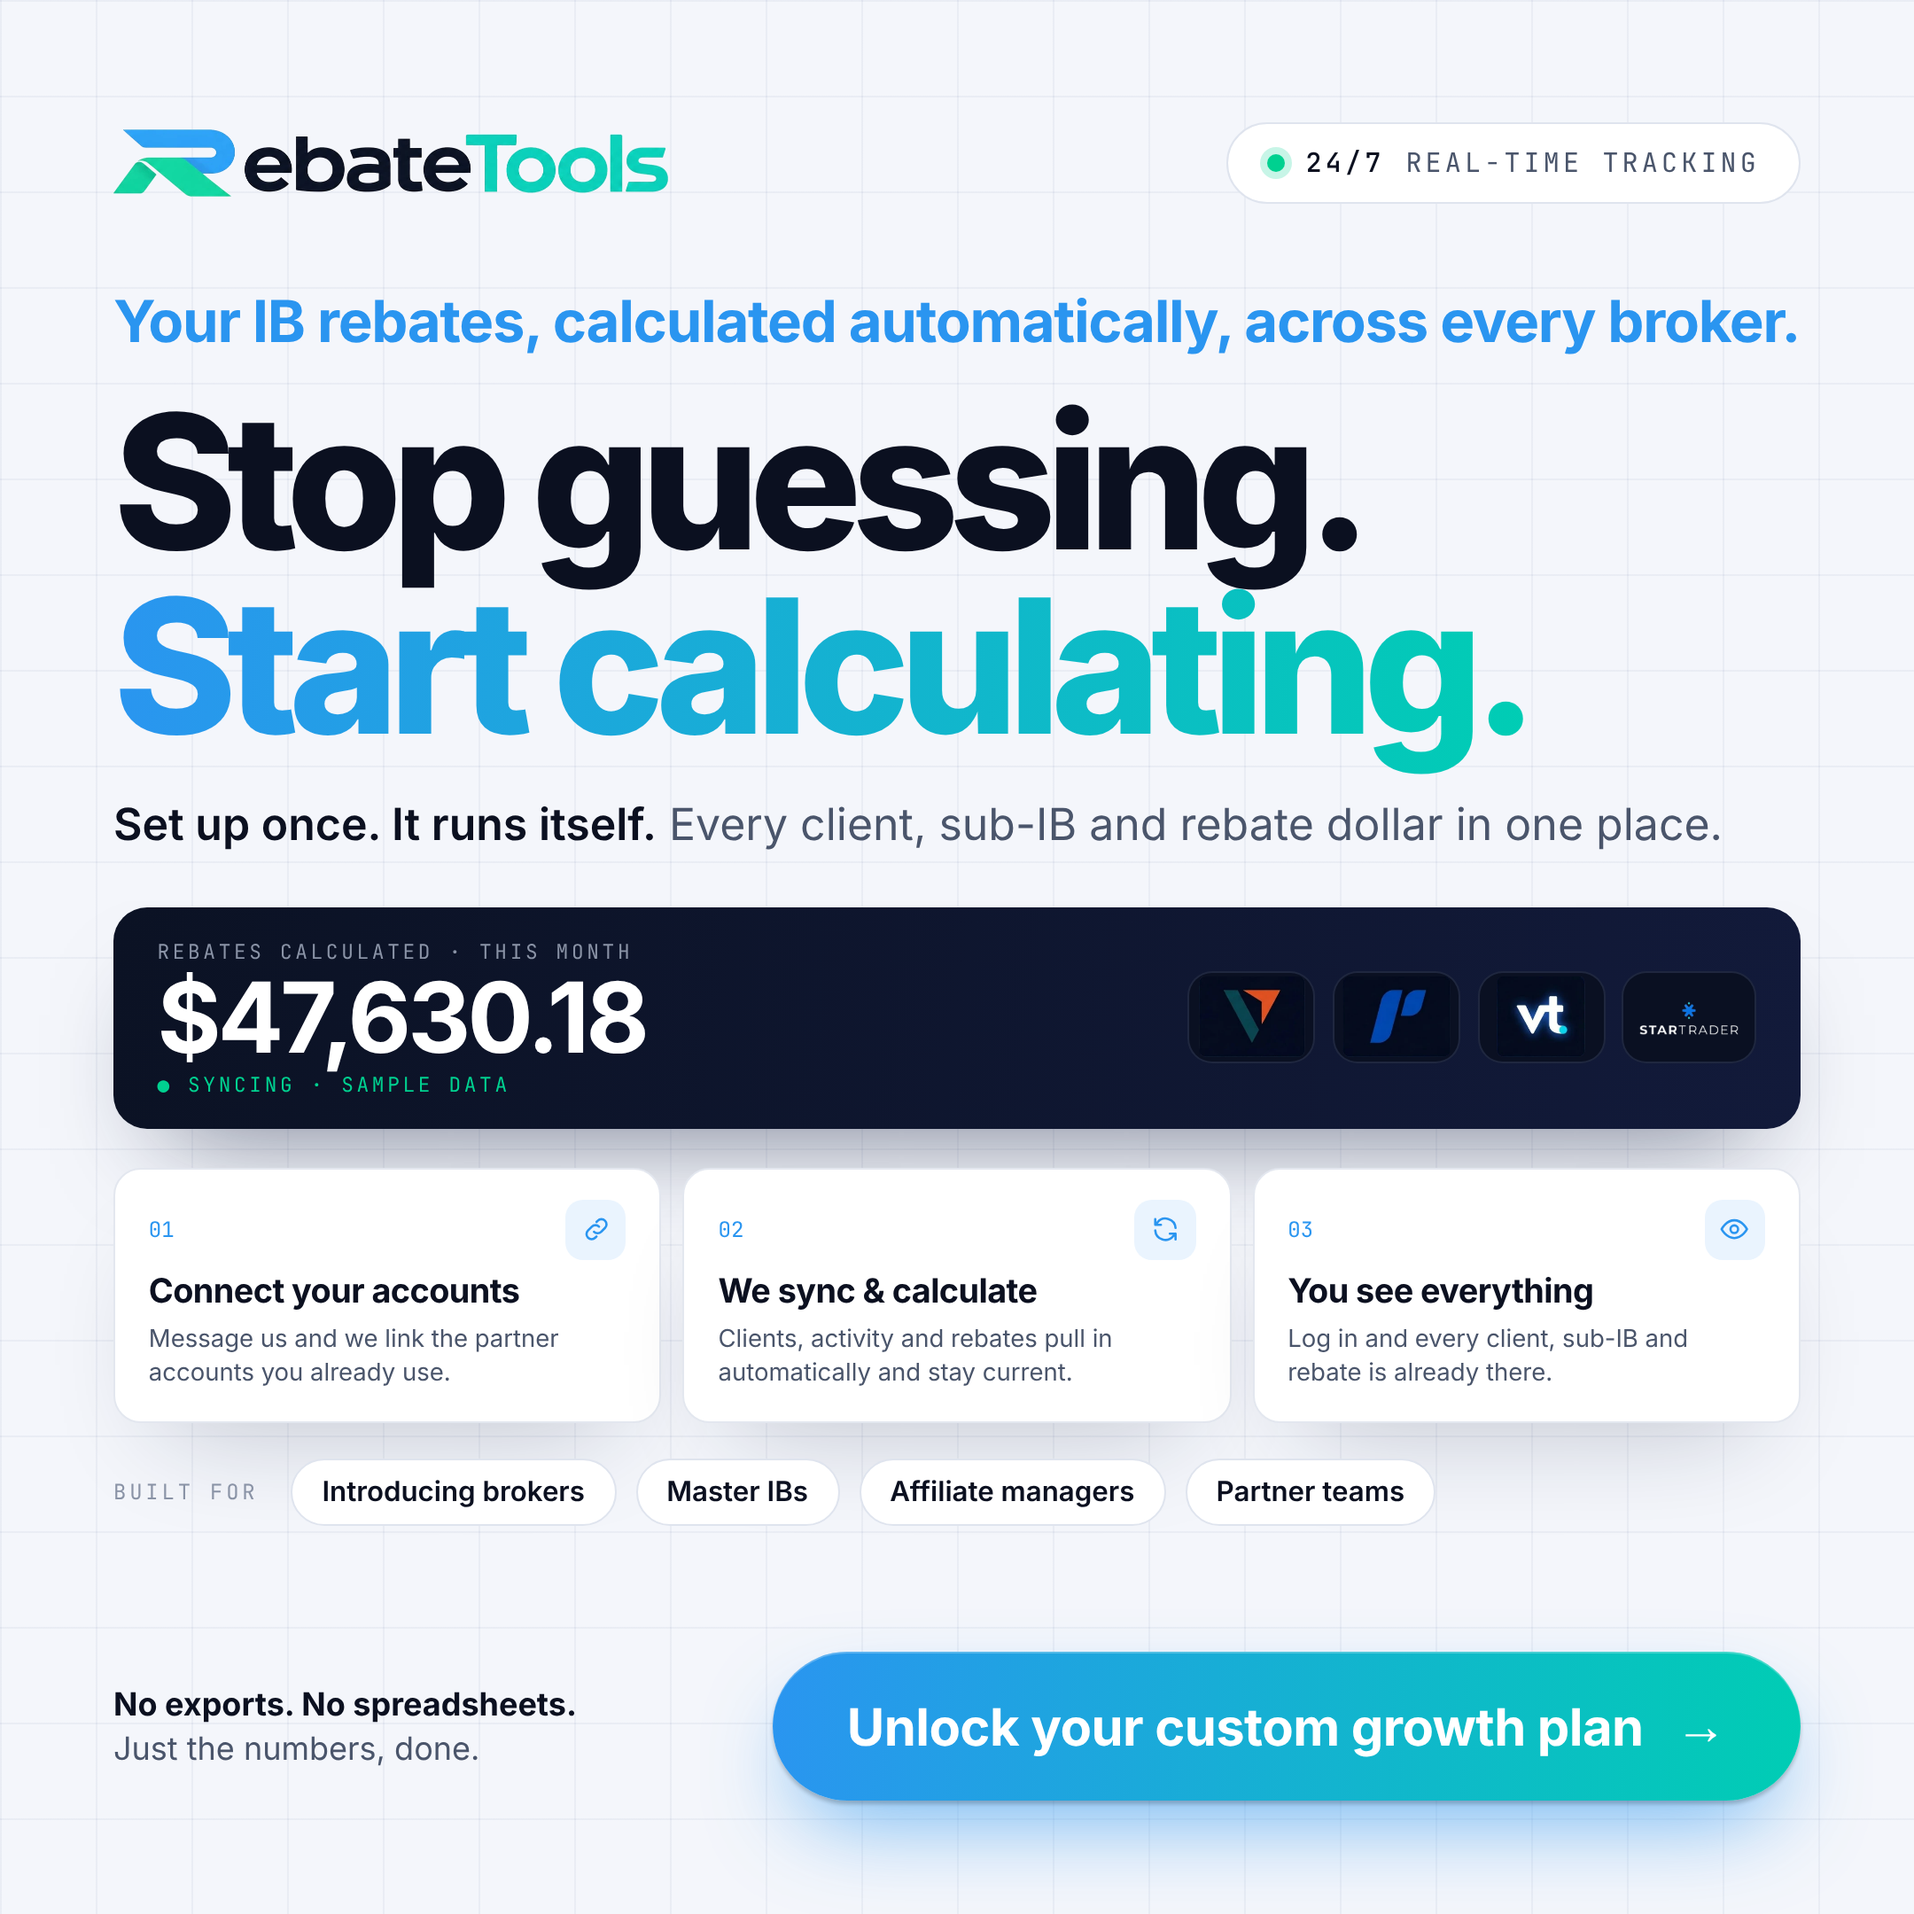
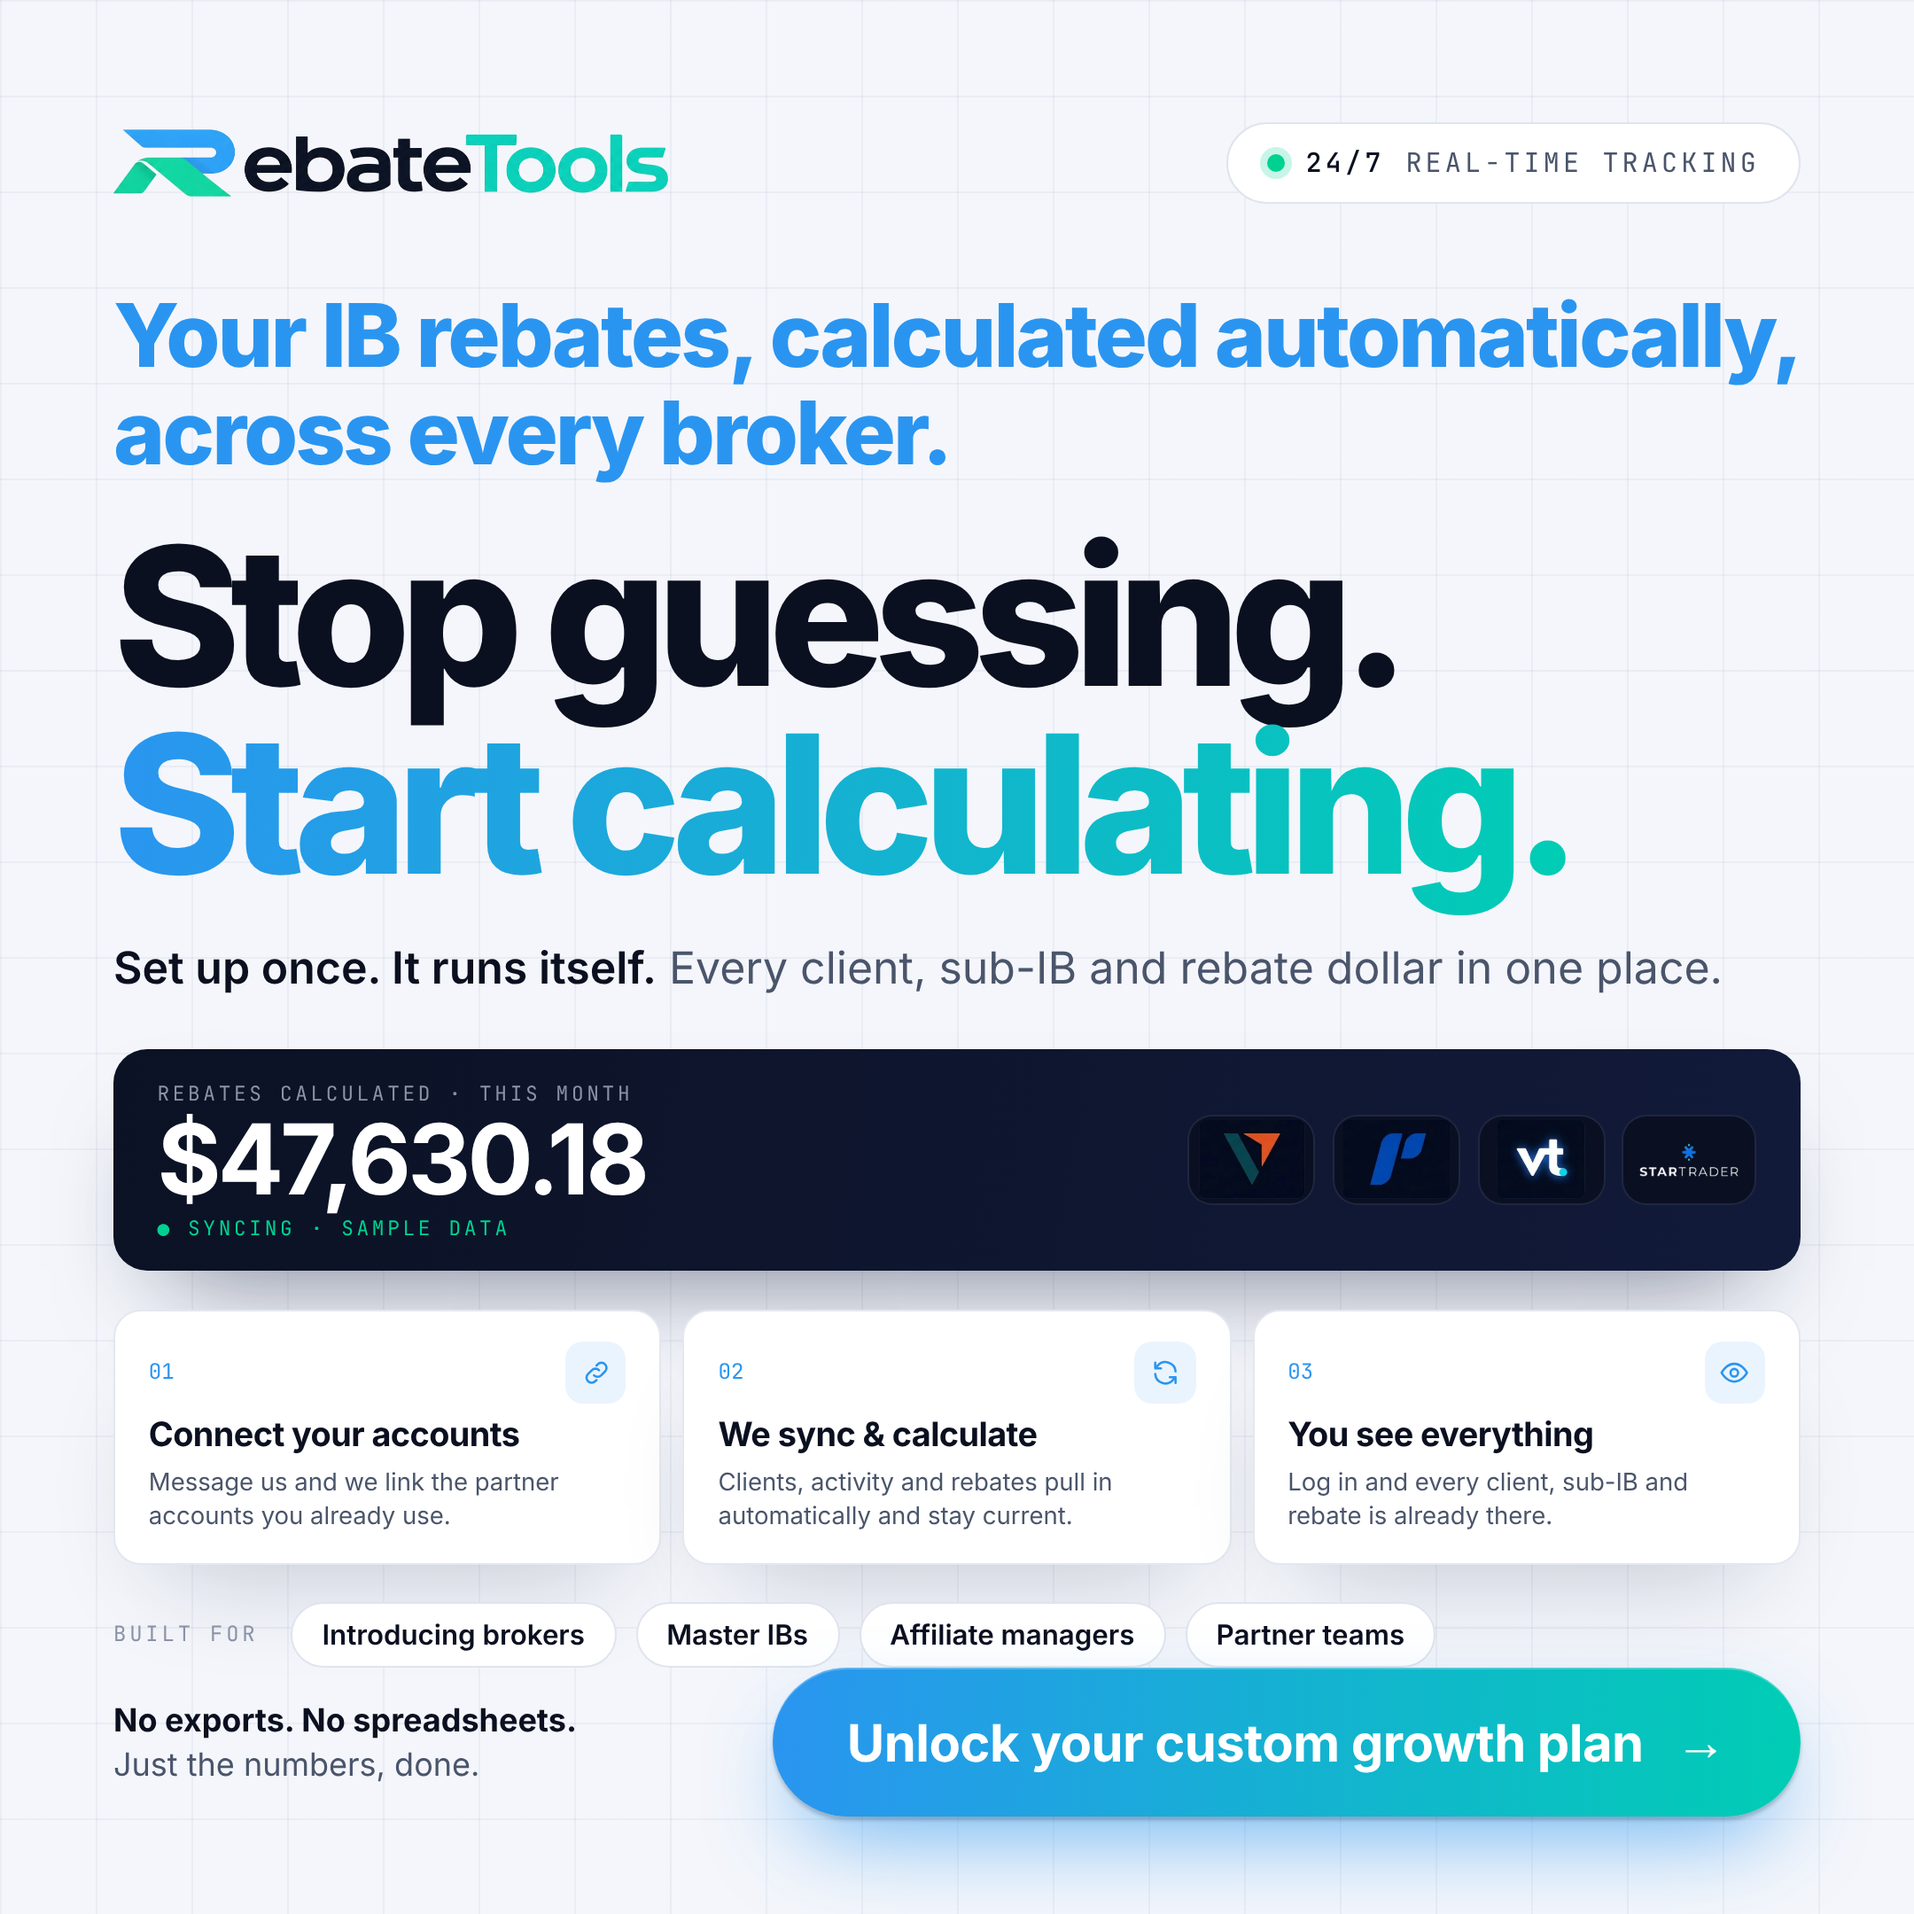
Ads 06 and 08: bigger callout line
Claude-Session: https://claude.ai/code/session_01VcxFrQ7jCfbNFfqaNWy83o

diff --git a/ads/source/ads.js b/ads/source/ads.js
@@ -8,9 +8,9 @@ const hv={
 3:H(104,'Still running<br>your IB network<br>on <span style="position:relative;display:inline-block"><span class="gt g-brand">spreadsheets?</span><span style="position:absolute;left:-1%;right:7%;top:52%;height:10px;background:#ff6b6b;border-radius:9px;transform:rotate(-1.2deg);opacity:.92"></span></span>','color:var(--ink)'),
 4:H(100,'Your best IB client<br>stopped trading<br><span class="gt g-orange">12 days ago.</span><br>Did you notice?'),
 5:H(98,'You\'re building<br>an IB network, but<br>do you actually know<br><span class="gt g-teal">who drives it?</span>','text-align:center'),
-6:H(124,'<div style="font-size:42px;line-height:1.2;letter-spacing:-.02em;font-weight:700;color:#2a95f0;margin-bottom:26px">Your IB rebates, calculated<br>automatically, across every broker.</div>Stop guessing.<br><span class="gt g-brand">Start calculating.</span>','color:var(--ink)'),
+6:H(124,'<div style="font-size:56px;line-height:1.12;letter-spacing:-.03em;font-weight:800;color:#2a95f0;margin-bottom:30px">Your IB rebates, calculated<br>automatically, across every broker.</div>Stop guessing.<br><span class="gt g-brand">Start calculating.</span>','color:var(--ink)'),
 7:H(116,'Your rebates<br>dropped 31%.<br><span class="gt g-coral">Do you know why?</span>','color:var(--ink)'),
-8:H(90,'<div style="font-size:38px;line-height:1.2;letter-spacing:-.02em;font-weight:700;color:#00a88f;margin-bottom:24px">For IBs &amp; affiliates with a trading community</div><span style="color:#3f4a63">A few clients drive<br>most of your rebates.</span><br><span class="gt g-teal">Do you know<br>which ones?</span>'),
+8:H(90,'<div style="font-size:58px;line-height:1.12;letter-spacing:-.03em;font-weight:800;color:#00a88f;margin-bottom:28px">For IBs &amp; affiliates<br>with a trading community</div><span style="color:#3f4a63">A few clients drive<br>most of your rebates.</span><br><span class="gt g-teal">Do you know<br>which ones?</span>'),
 9:H(116,"Who in your<br>IB network is<br>trading less than<br><span class=\"gt g-plum\">last week?</span>"),
 10:H(124,"IBs: which<br>traders keep your<br><span class=\"gt g-gold\">income alive?</span>",'color:var(--ink);text-align:center'),
 };
@@ -210,7 +210,7 @@ const banner6=(f=1)=>`<div style="background:linear-gradient(100deg,#0b1224,#121
 const step6=(n,i,t,d,f=1)=>`<div class="wcard" style="padding:${20*f}px ${22*f}px;border-radius:${18*f}px"><div class="row"><span class="mono" style="font-size:${14*f}px;color:#2a95f0">${n}</span><span class="sp"></span><span style="width:${40*f}px;height:${40*f}px;border-radius:10px;background:#eaf4fe;display:flex;align-items:center;justify-content:center">${ic(i,20*f,'#2a95f0')}</span></div><b style="display:block;font-size:${22*f}px;letter-spacing:-.015em;margin-top:6px;color:var(--ink)">${t}</b><div style="font-size:${16*f}px;line-height:1.4;color:var(--ink2);margin-top:6px">${d}</div></div>`;
 const steps6=(f=1,cols=3)=>`<div style="display:grid;grid-template-columns:repeat(${cols},1fr);gap:${14*f}px">${step6('01','link','Connect your accounts','Message us and we link the partner accounts you already use.',f)}${step6('02','sync','We sync &amp; calculate','Clients, activity and rebates pull in automatically and stay current.',f)}${step6('03','eye','You see everything','Log in and every client, sub-IB and rebate is already there.',f)}</div>`;
 const built6=`<div class="row" style="gap:12px;flex-wrap:wrap"><span class="lab" style="margin-right:8px">Built for</span>${['Introducing brokers','Master IBs','Affiliate managers','Partner teams'].map(t=>`<span style="background:#fff;border:1px solid #dfe4ee;border-radius:999px;padding:9px 18px;font-size:17px;font-weight:600;color:var(--ink)">${t}</span>`).join('')}</div>`;
-const hl6=(fs)=>`<div class="h" style="font-size:${fs}px;color:var(--ink);letter-spacing:-.055em"><div style="font-size:34px;line-height:1.2;letter-spacing:-.02em;font-weight:700;color:#2a95f0;margin-bottom:20px">Your IB rebates, calculated automatically, across every broker.</div>Stop guessing.<br><span class="gt g-brand">Start calculating.</span></div>`;
+const hl6=(fs)=>`<div class="h" style="font-size:${fs}px;color:var(--ink);letter-spacing:-.055em"><div style="font-size:50px;line-height:1.12;letter-spacing:-.03em;font-weight:800;color:#2a95f0;margin-bottom:22px">Your IB rebates, calculated automatically,<br>across every broker.</div>Stop guessing.<br><span class="gt g-brand">Start calculating.</span></div>`;
 A[6]={cls:'light grid',
 sq:`<div class="c">${topRow(pill('<b>24/7</b> real-time tracking'),true)}
 <div style="margin-top:42px">${hl6(110)}</div>
@@ -264,7 +264,7 @@ const bars8=(f=1)=>`<div><div class="row" style="gap:12px;margin-bottom:${14*f}p
  ${[['Olga Gutmann',22,90],['Kris Streich',18,72],['Laurence Smith',14,56],['Albert Kessler',11,44],['Hipolito Prosacco',9,36],['Other 143 clients',26,100,1]].map(r=>`<div class="row" style="height:${41*f}px;gap:16px"><span style="width:${175*f}px;font-size:${17*f}px;font-weight:600;color:${r[3]?'var(--ink3)':'var(--ink)'}">${r[0]}</span><span style="flex:1;height:${26*f}px;border-radius:8px;background:#eef1f6;overflow:hidden"><i style="display:block;height:100%;width:${r[2]}%;border-radius:8px;background:${r[3]?'#d3d9e4':'linear-gradient(90deg,#00c98a,#2a95f0)'}"></i></span><b style="width:${46*f}px;text-align:right;font-size:${17*f}px;color:${r[3]?'var(--ink3)':'var(--ink)'}">${r[1]}%</b></div>`).join('')}</div>`;
 const big8=(f=1)=>`<div><div class="gt g-teal" style="font-size:${104*f}px;font-weight:800;letter-spacing:-.05em;line-height:1">74%</div><div style="font-size:${19*f}px;color:var(--ink2);margin-top:8px;line-height:1.35">of rebates from <b style="color:var(--ink)">just 5 clients.</b></div>
  <div style="display:flex;flex-wrap:wrap;gap:8px;margin-top:${18*f}px">${['This month','All time','Active now','Low balance'].map((t,i)=>`<span class="mono" style="font-size:${12*f}px;letter-spacing:.14em;text-transform:uppercase;padding:6px 10px;border-radius:6px;${i?'border:1px solid #d9dfe9;color:var(--ink2)':'background:#0b1020;color:#fff'}">${t}</span>`).join('')}</div></div>`;
-const hl8=(a,b)=>`<div class="h" style="letter-spacing:-.05em"><div style="font-size:30px;line-height:1.2;letter-spacing:-.02em;font-weight:700;color:#00a88f;margin-bottom:16px">For IBs &amp; affiliates with a trading community</div><div style="font-size:${a}px;color:#3f4a63">A few clients drive most of your rebates.</div><div class="gt g-teal" style="font-size:${b}px;margin-top:6px">Do you know which ones?</div></div>`;
+const hl8=(a,b)=>`<div class="h" style="letter-spacing:-.05em"><div style="font-size:50px;line-height:1.12;letter-spacing:-.03em;font-weight:800;color:#00a88f;margin-bottom:20px">For IBs &amp; affiliates<br>with a trading community</div><div style="font-size:${a}px;color:#3f4a63">A few clients drive most of your rebates.</div><div class="gt g-teal" style="font-size:${b}px;margin-top:6px">Do you know which ones?</div></div>`;
 const cta8=cta('Find your top earners','background:linear-gradient(92deg,#00c98a,#2a95f0);box-shadow:0 22px 50px -14px rgba(0,180,140,.55)');
 const sub8=`<div class="sub" style="font-size:24px">Rank every client by rebate, volume and activity, so you <b>know exactly who your income depends on.</b></div>`;
 const bg8='background:radial-gradient(800px 600px at 100% 0%,rgba(0,209,144,.16),transparent 60%),#eef8f4';
